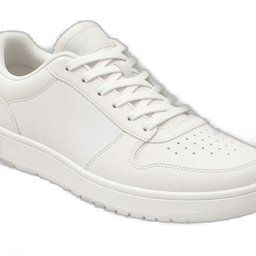
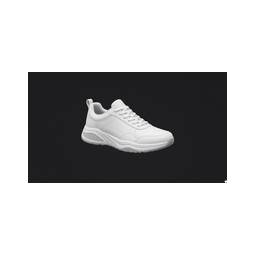
Well Sneakers: padded chip stickers without white plate
Replace collection chip PNGs with padded 256×256 RGBA assets so the full shoe stays visible. Thumbnails are 40×40 with object-fit:contain and 3px inset, transparent background, no studio plate.

diff --git a/wellsneakers-shop/web/catalog.html b/wellsneakers-shop/web/catalog.html
@@ -65,25 +65,25 @@
           <div class="collection-chips" id="collectionRow" role="group" aria-label="Подборки">
             <button type="button" class="collection-chip" data-color="white" aria-pressed="false">
               <span class="collection-chip-thumb" aria-hidden="true">
-                <img src="assets/chips/chip-white-256.png" alt="" width="32" height="32" />
+                <img src="assets/chips/chip-white-256.png" alt="" width="40" height="40" />
               </span>
               <span class="collection-chip-label">Белые</span>
             </button>
             <button type="button" class="collection-chip" data-color="bright" aria-pressed="false">
               <span class="collection-chip-thumb" aria-hidden="true">
-                <img src="assets/chips/chip-bright-256.png" alt="" width="32" height="32" />
+                <img src="assets/chips/chip-bright-256.png" alt="" width="40" height="40" />
               </span>
               <span class="collection-chip-label">Яркие</span>
             </button>
             <button type="button" class="collection-chip" data-color="black" aria-pressed="false">
               <span class="collection-chip-thumb" aria-hidden="true">
-                <img src="assets/chips/chip-strict-256.png" alt="" width="32" height="32" />
+                <img src="assets/chips/chip-strict-256.png" alt="" width="40" height="40" />
               </span>
               <span class="collection-chip-label">Строгие</span>
             </button>
             <button type="button" class="collection-chip collection-chip-sale" id="saleChip" data-collection="sale" aria-pressed="false">
               <span class="collection-chip-thumb" aria-hidden="true">
-                <img src="assets/chips/chip-sale-256.png" alt="" width="32" height="32" />
+                <img src="assets/chips/chip-sale-256.png" alt="" width="40" height="40" />
               </span>
               <span class="collection-chip-label">Скидки</span>
             </button>

diff --git a/wellsneakers-shop/web/styles.css b/wellsneakers-shop/web/styles.css
@@ -457,7 +457,7 @@ body.page-catalog.catalog-scrolled .filters-fab{display:inline-flex}
 .collection-chip:nth-child(3){transform:rotate(-.2deg)}
 .collection-chip:nth-child(4){transform:rotate(.3deg)}
 .collection-chip-thumb{
-  width:30px;height:30px;flex:0 0 auto;
+  width:40px;height:40px;flex:0 0 auto;
   border-radius:0;overflow:visible;
   border:0;
   background:transparent;
@@ -466,6 +466,7 @@ body.page-catalog.catalog-scrolled .filters-fab{display:inline-flex}
 .collection-chip-thumb img{
   width:100%;height:100%;
   object-fit:contain;object-position:center;
+  padding:3px;box-sizing:border-box;
   background:transparent;
   mix-blend-mode:normal;
 }
@@ -627,7 +628,7 @@ body.page-catalog.catalog-scrolled .filters-fab{display:inline-flex}
   .collection-chips{gap:10px}
   .collection-chip,.collection-chip:nth-child(2),.collection-chip:nth-child(3),.collection-chip:nth-child(4){transform:none}
   .collection-chip{min-height:48px;padding:6px 14px 6px 6px}
-  .collection-chip-thumb{width:32px;height:32px}
+  .collection-chip-thumb{width:40px;height:40px}
   .collection-chip-label{font-size:18px}
   .gender-chips .street-opt{min-height:34px;font-size:15px}
   .toy{width:88px;height:88px}

diff --git a/wellsneakers-shop/TZ.md b/wellsneakers-shop/TZ.md
@@ -151,7 +151,7 @@ MODEL NAME (жирный)
 - [x] Каталог сайта: импорт OC (~398) → на витрине все с наличием (~310; нулевые скрыты)
 - [~] Главная: плюшки **выше** `#him`/`#her`, индикатор **стрелка** (не плюс); без фейкового «белые −15%»; hero `assets/store.jpg` как есть (**960×1280**, ~296KB; attrs не 1734×1971; без full-bleed апскейла, полный кадр позже). Верхней строки чипов Ему/Ей/Скидки **нет** (ни sticky, ни под hero). Плитки `#him`/`#her` ниже плюшек остаются. Телефон витрины **+375 25 685-17-57** / `tel:+375256851757`. «Скидки» в hero → `catalog.html?sale=1`. Favicon прозрачный. **нужен pull `web/` на VPS**
 - [~] Каталог: чипы **Мужское / Женское** в одном стеке с подборками (сразу после Белые/Яркие/Строгие/Скидки, **выше** брендов и размеров); компактные pills `.street-opt`. Фильтры и шапка **не sticky** — при скролле каталога уезжают вверх. Док внизу компактный (~51px). При `scrollY` > ~240px док → 3 колонки `[Главная] [↑ Наверх] [Позвонить]` (smooth scroll наверх) + справа FAB ☰ над доком → `#filtersStack` / `#collectionRow`. У верха ↑ и ☰ скрыты. `?gender=men` / `women` (home tiles уже так ведут). API `GET /api/catalog?gender=` режет по `products.gender` (`men`/`women`/`unisex`/null). Infer только из явных токенов/категории OC, иначе null. Пусто → «Нет моделей». Кнопки «Как заказать» нет. **нужен redeploy API** + pull `web/`
-- [~] Каталог подборки: компактные чипы как плюшки `.perk` — 3D-стикеры `assets/chips/chip-*-256.png` (альфа, без белой студийной пластины; thumb `background:transparent` + `object-fit: contain`) + **Белые / Яркие / Строгие / Скидки**, **выше** брендов и размеров. Не большие фото-плитки. URL `?color=white` / `bright` / `black`, `?sale=1`. H3 «Каталог» без подписи/api-banner. API `GET /api/catalog?color=` + клиентский fallback (white / vivid RED-PINK-YELLOW-GREEN-BLUE-ORANGE… / black). Пусто → «Нет белых/ярких/строгих моделей» / «Сейчас скидок нет». **нужен pull `web/`**; `?color=bright` на API — после redeploy
+- [~] Каталог подборки: компактные чипы как плюшки `.perk` — 3D-стикеры `assets/chips/chip-*-256.png` (паддинг, прозрачные углы, полный кадр кроссовка; thumb **40×40**, `object-fit:contain`, `padding:3px`, `background:transparent`, без белой студийной пластины) + **Белые / Яркие / Строгие / Скидки**, **выше** брендов и размеров. Не большие фото-плитки. URL `?color=white` / `bright` / `black`, `?sale=1`. H3 «Каталог» без подписи/api-banner. API `GET /api/catalog?color=` + клиентский fallback (white / vivid RED-PINK-YELLOW-GREEN-BLUE-ORANGE… / black). Пусто → «Нет белых/ярких/строгих моделей» / «Сейчас скидок нет». Стикеры синхронизированы с VPS-хотфиксом; `?color=bright` на API — после redeploy
 - [~] Скидки на витрине: `products.old_price_byn` (nullable); on sale = `old_price_byn > price_byn`; `GET /api/catalog?sale=1` → только уценённые, `total=0` → «Сейчас скидок нет». Staff create/patch + OC import мапят old/special. **нужен redeploy API**
 - [~] Одна карточка на модель, цвета как варианты (`color`+`model_key`, `GET /api/catalog` → `models[]`). Staff по артикулу не ломаем. **нужен redeploy VPS**
 - [~] Каталог: дефолтный порядок — больше размерных строк в наличии сверху (`stockSizeCount` = сумма size-rows с qty>0 по всем цветам; ничья — бренд/имя). `?sort=name` оставляет алфавит. Витрина не пересортировывает ответ API. **нужен redeploy API**
